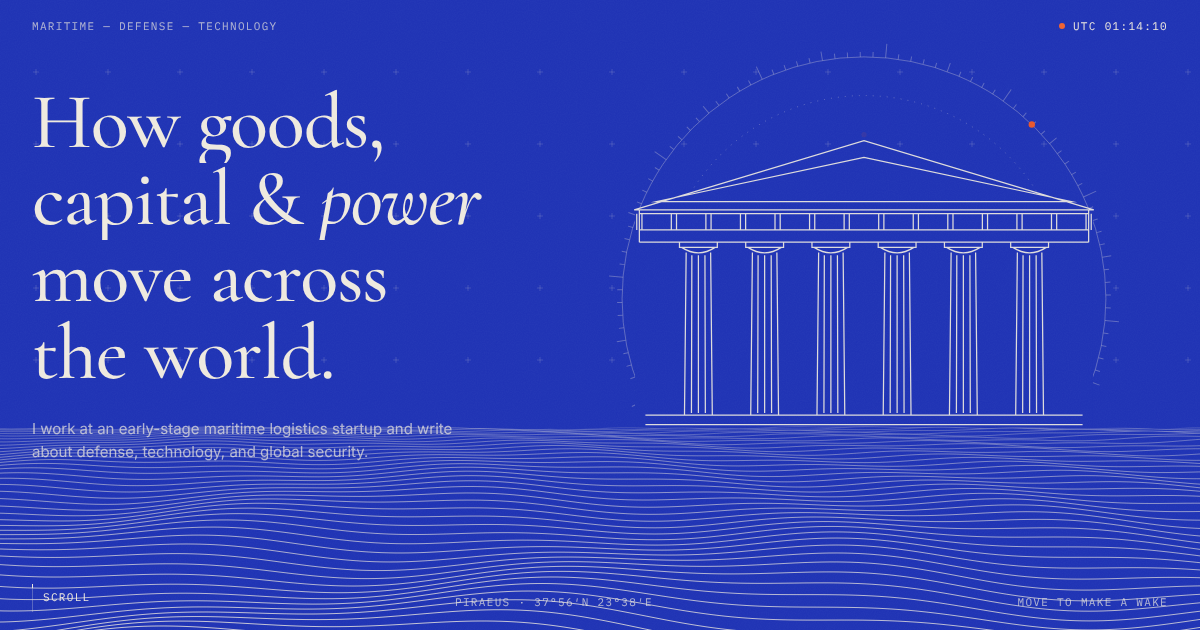
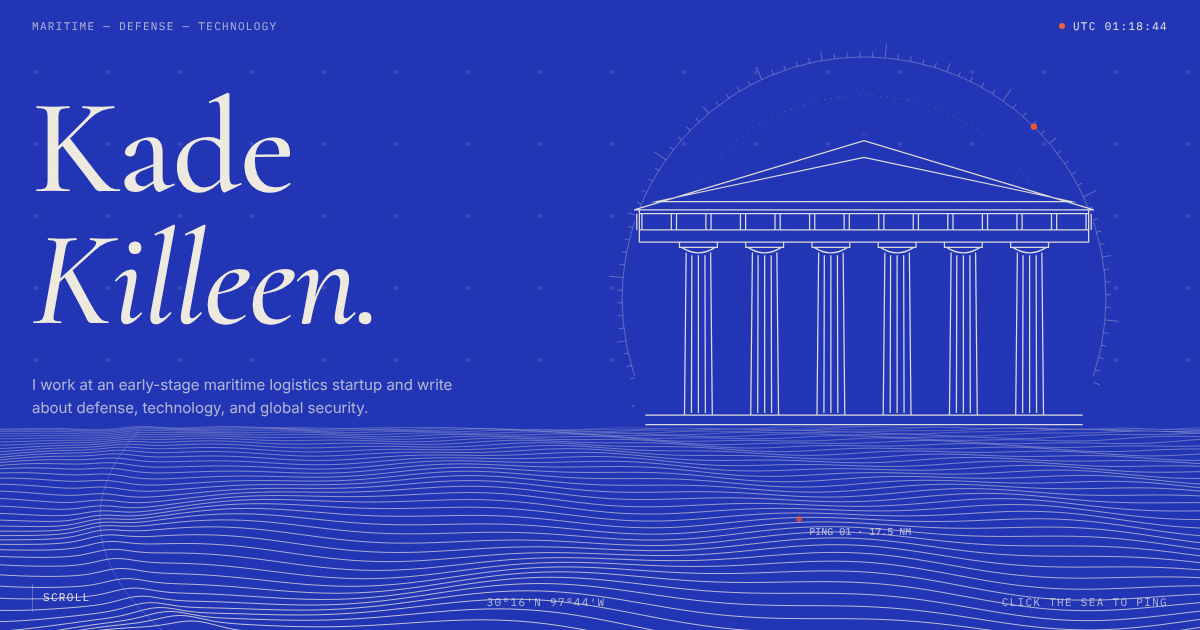
Home hero: name as headline, sonar ping on click, Austin coordinates
Claude-Session: https://claude.ai/code/session_01UrTQh3bhtZHpESRZVPc2MV

diff --git a/home.js b/home.js
@@ -1,7 +1,8 @@
 // Home hero: a temple rising out of a line-drawn sea.
 // Plain 2D canvas, no libraries. Waves are drawn back-to-front and each one is
 // filled underneath, so nearer swells hide the ones (and the temple) behind them.
-// The cursor leaves a wake. Rendering pauses when the hero is off screen.
+// Clicking or tapping the sea sends out a sonar ping that ripples across the
+// waves. Rendering pauses when the hero is off screen.
 (() => {
     const canvas = document.getElementById('sea');
     if (!canvas || !canvas.getContext) return;
@@ -17,7 +18,10 @@
     let horizon = 0, lines = 0, step = 8;
     let temple = null;
 
-    const mouse = { x: -9999, y: -9999, tx: -9999, ty: -9999, energy: 0, inside: false };
+    const mouse = { x: -9999, y: -9999, inside: false };
+    const pings = [];             // {x, y, t0}
+    const PING_LIFE = 2600;       // ms
+    const PING_SPEED = 0.5;       // px per ms
     const start = performance.now();
 
     function resize() {
@@ -223,15 +227,19 @@
             Math.sin(x * 0.004 * freq + s * 0.35 + i * 0.07) * 0.6;
         let y = baseY + v * amp;
 
-        // wake: a lifted, rippling bump under the cursor
-        if (mouse.energy > 0.01) {
-            const dx = x - mouse.x;
-            const dy = baseY - mouse.y;
-            const sx = 90 + k * 60;
-            const g = Math.exp(-(dx * dx) / (2 * sx * sx) - (dy * dy) / (2 * 70 * 70));
-            if (g > 0.002) {
-                y -= g * mouse.energy * (14 + 26 * k) * (0.6 + 0.4 * Math.cos(dx * 0.045 - s * 6));
-            }
+        // sonar pings: an expanding ring, flattened by the sea's perspective
+        for (let p = 0; p < pings.length; p++) {
+            const pg = pings[p];
+            const age = t - pg.t0;
+            if (age < 0 || age > PING_LIFE) continue;
+            const radius = age * PING_SPEED;
+            const dx = x - pg.x;
+            const dy = (baseY - pg.y) * 2.6;
+            const d = Math.sqrt(dx * dx + dy * dy);
+            const off = d - radius;
+            if (off > 60 || off < -60) continue;
+            const fade = 1 - age / PING_LIFE;
+            y -= Math.exp(-(off * off) / (2 * 18 * 18)) * fade * fade * (10 + 22 * k);
         }
         return y;
     }
@@ -254,6 +262,37 @@
             ctx.strokeStyle = `rgba(${CREAM}, ${(0.18 + 0.62 * Math.pow(k, 0.8)).toFixed(3)})`;
             ctx.lineWidth = i === 0 ? 1.1 : 1;
             ctx.stroke();
+        }
+    }
+
+    // ---- Ping rings drawn on top of the sea ----
+    function drawPings(t) {
+        for (let i = pings.length - 1; i >= 0; i--) {
+            const pg = pings[i];
+            const age = t - pg.t0;
+            if (age > PING_LIFE) { pings.splice(i, 1); continue; }
+            if (age < 0) continue;
+            const fade = 1 - age / PING_LIFE;
+            const r = age * PING_SPEED;
+            ctx.save();
+            ctx.beginPath();
+            ctx.rect(0, horizon + 2, w, h);
+            ctx.clip();
+            ctx.strokeStyle = `rgba(${CREAM}, ${(0.45 * fade).toFixed(3)})`;
+            ctx.lineWidth = 1;
+            ctx.beginPath();
+            ctx.ellipse(pg.x, pg.y, r, r / 2.6, 0, 0, Math.PI * 2);
+            ctx.stroke();
+            // origin marker + readout
+            ctx.fillStyle = SIGNAL;
+            ctx.globalAlpha = Math.min(1, fade * 1.6);
+            ctx.beginPath();
+            ctx.arc(pg.x, pg.y, 3, 0, Math.PI * 2);
+            ctx.fill();
+            ctx.fillStyle = `rgba(${CREAM}, 0.9)`;
+            ctx.font = '500 10px "IBM Plex Mono", ui-monospace, monospace';
+            ctx.fillText(`PING ${String(pg.n).padStart(2, '0')} \u00B7 ${(r / 40).toFixed(1)} NM`, pg.x + 10, pg.y + 16);
+            ctx.restore();
         }
     }
 
@@ -284,10 +323,6 @@
         const rise = reduceMotion ? 1 : Math.min(1, Math.max(0, (t - 250) / 2600));
         const eased = 1 - Math.pow(1 - rise, 3);
 
-        // ease the wake toward the pointer
-        mouse.x += (mouse.tx - mouse.x) * 0.12;
-        mouse.y += (mouse.ty - mouse.y) * 0.12;
-        mouse.energy += ((mouse.inside ? 1 : 0) - mouse.energy) * 0.05;
 
         ctx.fillStyle = BLUE;
         ctx.fillRect(0, 0, w, h);
@@ -295,6 +330,7 @@
         drawRing(t, eased);
         drawTemple(eased, t);
         drawSea(reduceMotion ? 0 : t);
+        drawPings(t);
         drawReticle();
     }
 
@@ -318,13 +354,24 @@
     // ---- Pointer ----
     hero.addEventListener('pointermove', (e) => {
         const r = canvas.getBoundingClientRect();
-        mouse.tx = e.clientX - r.left;
-        mouse.ty = e.clientY - r.top;
-        if (!mouse.inside) { mouse.x = mouse.tx; mouse.y = mouse.ty; }
-        mouse.inside = true;
+        mouse.x = e.clientX - r.left;
+        mouse.y = e.clientY - r.top;
+        mouse.inside = e.pointerType === 'mouse';
         if (reduceMotion) draw(performance.now());
     });
     hero.addEventListener('pointerleave', () => { mouse.inside = false; });
+
+    let pingCount = 0;
+    function ping(x, y, delay) {
+        if (reduceMotion) return;
+        pings.push({ x, y: Math.max(y, horizon + 14), t0: performance.now() - start + (delay || 0), n: ++pingCount });
+        if (pings.length > 5) pings.shift();
+    }
+    hero.addEventListener('pointerdown', (e) => {
+        if (e.target.closest('a, button')) return;
+        const r = canvas.getBoundingClientRect();
+        ping(e.clientX - r.left, e.clientY - r.top);
+    });
 
     let rt = 0;
     window.addEventListener('resize', () => {
@@ -338,5 +385,7 @@
         if (document.fonts) document.fonts.ready.then(() => draw(performance.now()));
     } else {
         play();
+        // one ping once the temple has risen, so visitors see what the sea does
+        ping(temple.cx - temple.w * 0.15, horizon + (h - horizon) * 0.45, 3000);
     }
 })();

diff --git a/index.html b/index.html
@@ -20,7 +20,7 @@
     <link rel="preconnect" href="https://fonts.gstatic.com" crossorigin>
     <link href="https://fonts.googleapis.com/css2?family=Cormorant+Garamond:ital,wght@0,500;0,600;1,500;1,600&family=IBM+Plex+Mono:wght@400;500&family=Inter:wght@400;500;600&display=swap" rel="stylesheet">
     <link rel="icon" type="image/svg+xml" href="favicon.svg">
-    <link rel="stylesheet" href="style.css?v=31">
+    <link rel="stylesheet" href="style.css?v=32">
     <script>document.documentElement.classList.remove('no-js')</script>
 </head>
 <body>
@@ -54,18 +54,16 @@
 
             <div class="hero-copy">
                 <h1 class="hero-title">
-                    <span class="line"><span>How goods,</span></span>
-                    <span class="line"><span>capital &amp; <em>power</em></span></span>
-                    <span class="line"><span>move across</span></span>
-                    <span class="line"><span>the world.</span></span>
+                    <span class="line"><span>Kade</span></span>
+                    <span class="line"><span><em>Killeen.</em></span></span>
                 </h1>
                 <p class="hero-sub">I work at an early-stage maritime logistics startup and write about defense, technology, and global security.</p>
             </div>
 
             <div class="hero-foot">
                 <a href="#focus" class="scroll-cue"><i aria-hidden="true"></i>Scroll</a>
-                <span class="hide-sm">Piraeus &middot; 37&deg;56&prime;N 23&deg;38&prime;E</span>
-                <span class="hide-sm">Move to make a wake</span>
+                <span class="hide-sm">30&deg;16&prime;N 97&deg;44&prime;W</span>
+                <span class="hide-sm">Click the sea to ping</span>
             </div>
         </section>
 
@@ -142,7 +140,7 @@
         </div>
     </footer>
 
-    <script src="main.js?v=31"></script>
-    <script src="home.js?v=31"></script>
+    <script src="main.js?v=32"></script>
+    <script src="home.js?v=32"></script>
 </body>
 </html>

diff --git a/projects/microeconomics-of-war.html b/projects/microeconomics-of-war.html
@@ -20,7 +20,7 @@
     <link rel="preconnect" href="https://fonts.gstatic.com" crossorigin>
     <link href="https://fonts.googleapis.com/css2?family=Cormorant+Garamond:ital,wght@0,500;0,600;1,500;1,600&family=IBM+Plex+Mono:wght@400;500&family=Inter:wght@400;500;600&display=swap" rel="stylesheet">
     <link rel="icon" type="image/svg+xml" href="../favicon.svg">
-    <link rel="stylesheet" href="../style.css?v=31">
+    <link rel="stylesheet" href="../style.css?v=32">
     <script>document.documentElement.classList.remove('no-js')</script>
 </head>
 <body>
@@ -106,7 +106,7 @@
         </div>
     </footer>
 
-    <script src="../main.js?v=31"></script>
-    <script src="../war-globe.js?v=31"></script>
+    <script src="../main.js?v=32"></script>
+    <script src="../war-globe.js?v=32"></script>
 </body>
 </html>

diff --git a/projects/_template.html b/projects/_template.html
@@ -27,7 +27,7 @@
     <link rel="preconnect" href="https://fonts.gstatic.com" crossorigin>
     <link href="https://fonts.googleapis.com/css2?family=Cormorant+Garamond:ital,wght@0,500;0,600;1,500;1,600&family=IBM+Plex+Mono:wght@400;500&family=Inter:wght@400;500;600&display=swap" rel="stylesheet">
     <link rel="icon" type="image/svg+xml" href="../favicon.svg">
-    <link rel="stylesheet" href="../style.css?v=31">
+    <link rel="stylesheet" href="../style.css?v=32">
     <script>document.documentElement.classList.remove('no-js')</script>
 </head>
 <body>
@@ -95,6 +95,6 @@
         </div>
     </footer>
 
-    <script src="../main.js?v=31"></script>
+    <script src="../main.js?v=32"></script>
 </body>
 </html>

diff --git a/projects/f1-driver-model.html b/projects/f1-driver-model.html
@@ -20,7 +20,7 @@
     <link rel="preconnect" href="https://fonts.gstatic.com" crossorigin>
     <link href="https://fonts.googleapis.com/css2?family=Cormorant+Garamond:ital,wght@0,500;0,600;1,500;1,600&family=IBM+Plex+Mono:wght@400;500&family=Inter:wght@400;500;600&display=swap" rel="stylesheet">
     <link rel="icon" type="image/svg+xml" href="../favicon.svg">
-    <link rel="stylesheet" href="../style.css?v=31">
+    <link rel="stylesheet" href="../style.css?v=32">
     <script>document.documentElement.classList.remove('no-js')</script>
 </head>
 <body>
@@ -88,6 +88,6 @@
         </div>
     </footer>
 
-    <script src="../main.js?v=31"></script>
+    <script src="../main.js?v=32"></script>
 </body>
 </html>

diff --git a/about.html b/about.html
@@ -20,7 +20,7 @@
     <link rel="preconnect" href="https://fonts.gstatic.com" crossorigin>
     <link href="https://fonts.googleapis.com/css2?family=Cormorant+Garamond:ital,wght@0,500;0,600;1,500;1,600&family=IBM+Plex+Mono:wght@400;500&family=Inter:wght@400;500;600&display=swap" rel="stylesheet">
     <link rel="icon" type="image/svg+xml" href="favicon.svg">
-    <link rel="stylesheet" href="style.css?v=31">
+    <link rel="stylesheet" href="style.css?v=32">
     <script>document.documentElement.classList.remove('no-js')</script>
 </head>
 <body>
@@ -185,6 +185,6 @@
         </div>
     </footer>
 
-    <script src="main.js?v=31"></script>
+    <script src="main.js?v=32"></script>
 </body>
 </html>

diff --git a/contact.html b/contact.html
@@ -20,7 +20,7 @@
     <link rel="preconnect" href="https://fonts.gstatic.com" crossorigin>
     <link href="https://fonts.googleapis.com/css2?family=Cormorant+Garamond:ital,wght@0,500;0,600;1,500;1,600&family=IBM+Plex+Mono:wght@400;500&family=Inter:wght@400;500;600&display=swap" rel="stylesheet">
     <link rel="icon" type="image/svg+xml" href="favicon.svg">
-    <link rel="stylesheet" href="style.css?v=31">
+    <link rel="stylesheet" href="style.css?v=32">
     <script>document.documentElement.classList.remove('no-js')</script>
 </head>
 <body>
@@ -110,6 +110,6 @@
         </div>
     </footer>
 
-    <script src="main.js?v=31"></script>
+    <script src="main.js?v=32"></script>
 </body>
 </html>

diff --git a/projects.html b/projects.html
@@ -20,7 +20,7 @@
     <link rel="preconnect" href="https://fonts.gstatic.com" crossorigin>
     <link href="https://fonts.googleapis.com/css2?family=Cormorant+Garamond:ital,wght@0,500;0,600;1,500;1,600&family=IBM+Plex+Mono:wght@400;500&family=Inter:wght@400;500;600&display=swap" rel="stylesheet">
     <link rel="icon" type="image/svg+xml" href="favicon.svg">
-    <link rel="stylesheet" href="style.css?v=31">
+    <link rel="stylesheet" href="style.css?v=32">
     <script>document.documentElement.classList.remove('no-js')</script>
 </head>
 <body>
@@ -89,6 +89,6 @@
         </div>
     </footer>
 
-    <script src="main.js?v=31"></script>
+    <script src="main.js?v=32"></script>
 </body>
 </html>

diff --git a/style.css b/style.css
@@ -310,6 +310,8 @@ main { flex: 1; width: 100%; }
 
 .hero {
     position: relative;
+    cursor: crosshair;
+    -webkit-tap-highlight-color: transparent;
     margin: 12px;
     min-height: calc(100svh - 64px - 24px);
     background: var(--blue);
@@ -367,7 +369,7 @@ main { flex: 1; width: 100%; }
 .hero-title {
     font-family: var(--serif);
     font-weight: 500;
-    font-size: clamp(42px, 6.4vw, 96px);
+    font-size: clamp(68px, 11vw, 168px);
     line-height: 0.92;
     letter-spacing: -0.015em;
 }
